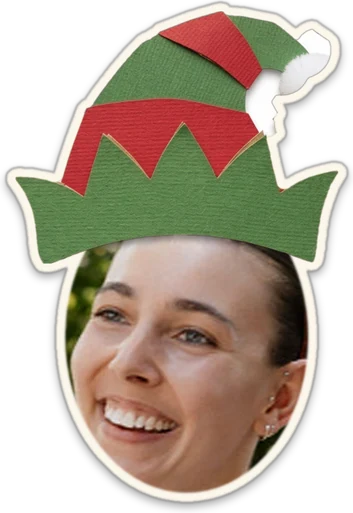
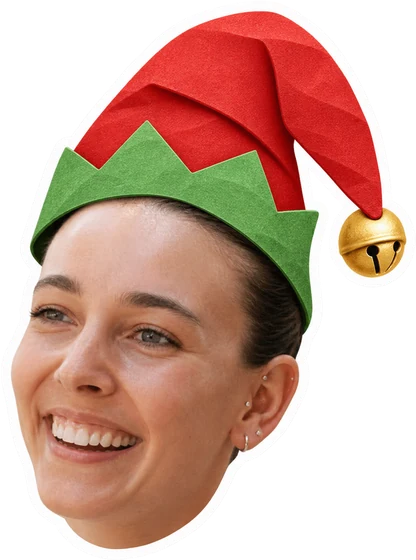
Neue Wichtel-Gesichter für Andrea, Anna, Peter, Sabine S., Holger, Thomas und Johanna
Claude-Session: https://claude.ai/code/session_01T7FGATe9nrv8ZgAWES1jWS

diff --git a/index.html b/index.html
@@ -392,7 +392,7 @@
 
     const funnyFaces = ["😜", "🥳", "😎", "🤩", "😇", "🤪", "🤠", "🤓", "🤭", "🤫"];
 
-    // Gesichter der Familie (Ordner "gesichter/"). Wer hier fehlt (aktuell: Andrea), bekommt ein Emoji als Platzhalter.
+    // Gesichter der Familie (Ordner "gesichter/"). Wer hier fehlt, bekommt ein Emoji als Platzhalter.
     const faces = {
         "Paula": "gesichter/paula.webp",
         "Julian": "gesichter/julian.webp",
@@ -400,6 +400,7 @@
         "Linda": "gesichter/linda.webp",
         "Dani": "gesichter/dani.webp",
         "Sabine N.": "gesichter/sabine-n.webp",
+        "Andrea": "gesichter/andrea.webp",
         "Sabine S.": "gesichter/sabine-s.webp",
         "Anna": "gesichter/anna.webp",
         "Lara": "gesichter/lara.webp",
